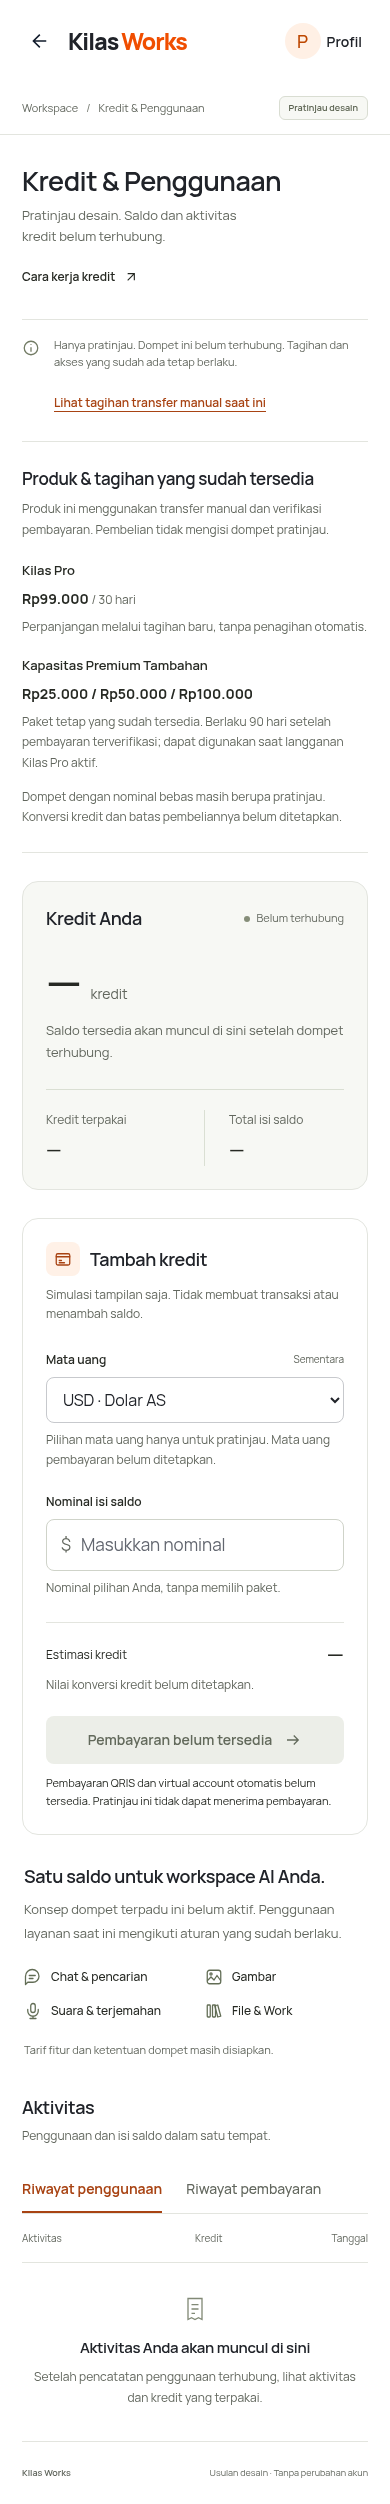
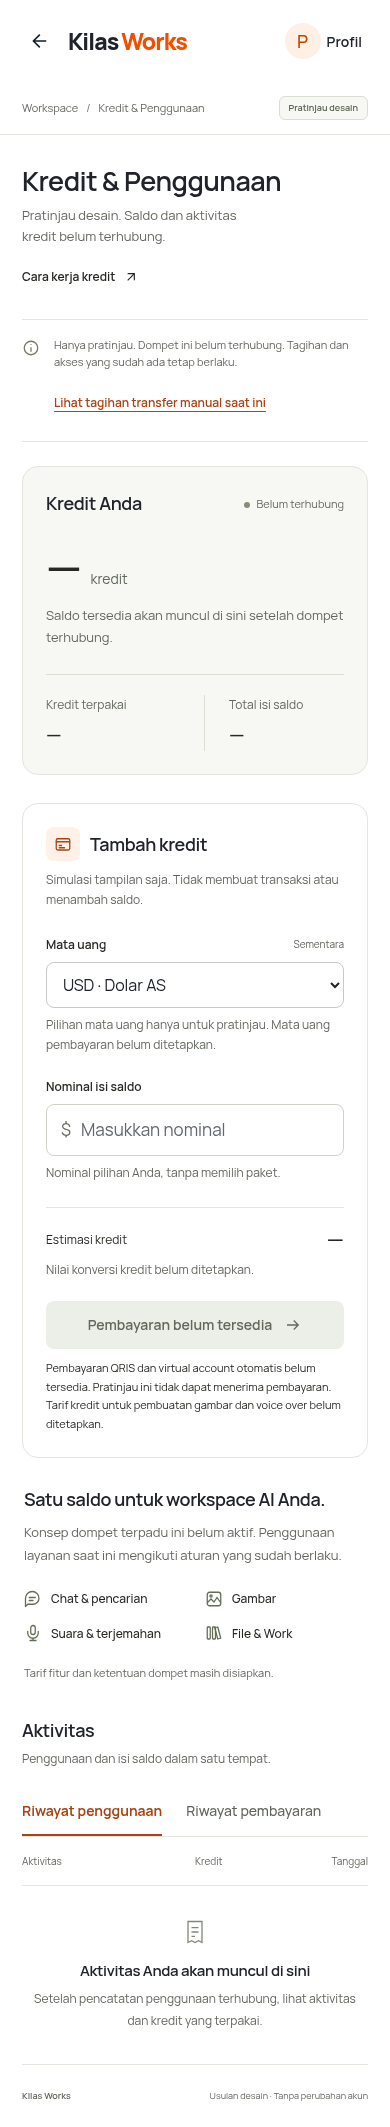
Remove legacy offers from new wallet pricing presentation

diff --git a/client-hub/templates/kilas_ai/credits_usage_preview.html b/client-hub/templates/kilas_ai/credits_usage_preview.html
@@ -22,18 +22,6 @@
       <header class="credits-heading"><div><h1>{{ ui_t('Credits & Usage') }}</h1><p>{{ ui_t('Pratinjau desain. Saldo dan aktivitas kredit belum terhubung.') }}</p></div><a class="credits-help-link" href="#credits-how">{{ ui_t('How credits work') }}<svg viewBox="0 0 24 24" width="16" height="16" fill="none" stroke="currentColor" stroke-width="1.7" aria-hidden="true"><path d="m7 17 10-10M7 7h10v10"/></svg></a></header>
       <div class="credits-preview-note"><svg viewBox="0 0 24 24" width="18" height="18" fill="none" stroke="currentColor" stroke-width="1.7" aria-hidden="true"><circle cx="12" cy="12" r="9"/><path d="M12 11v6m0-10v1"/></svg><p>{{ ui_t('Preview only. This wallet is not connected. Existing billing and access are unchanged.') }}</p><a href="{{ url_for('kilas_ai.usage_page',view='legacy') }}">{{ ui_t('View existing manual billing') }}</a></div>
 
-      {% if current_billing is defined %}
-      <section class="credits-current-billing" aria-labelledby="credits-current-title">
-        <h2 id="credits-current-title">{{ ui_t('Existing products & billing') }}</h2>
-        <p>{{ ui_t('These existing products use manual transfer and payment review. They do not fund the preview wallet.') }}</p>
-        <dl>
-          <div><dt>{{ ui_t('Kilas Pro') }}</dt><dd><strong>Rp{{ '{:,.0f}'.format(current_billing.subscription_amount_idr).replace(',', '.') }}</strong> <span>{{ ui_t('/ 30 days') }}</span></dd><dd class="credits-product-detail">{{ ui_t('Renewal uses a new invoice, not an automatic charge.') }}</dd></div>
-          <div><dt>{{ ui_t('Additional Premium Capacity') }}</dt><dd><strong>{% for amount in current_billing.capacity_amounts_idr %}Rp{{ '{:,.0f}'.format(amount).replace(',', '.') }}{% if not loop.last %} / {% endif %}{% endfor %}</strong></dd><dd class="credits-product-detail">{{ ui_t('Existing fixed packs. Valid for 90 days after verified payment; usable with an active Kilas Pro subscription.') }}</dd></div>
-        </dl>
-        <p class="credits-product-detail">{{ ui_t('The custom-amount wallet remains a preview. Its credit conversion and purchase limits are not set.') }}</p>
-      </section>
-      {% endif %}
-
       <div class="credits-overview">
         <div class="credits-overview-main">
           <section class="credits-balance" aria-labelledby="credits-balance-title">
@@ -66,7 +54,7 @@
           <div class="credits-topup-review">
           <div class="credits-estimate"><div><span>{{ ui_t('Estimated credits') }}</span><strong aria-label="{{ ui_t('Estimate unavailable') }}">—</strong></div><p>{{ ui_t('The credit conversion rate is not set yet.') }}</p></div>
           <button class="credits-pay-button" type="button" disabled aria-describedby="credits-payment-help">{{ ui_t('Pembayaran belum tersedia') }}<svg viewBox="0 0 24 24" width="18" height="18" fill="none" stroke="currentColor" stroke-width="1.7" aria-hidden="true"><path d="M4 12h15m-6-6 6 6-6 6"/></svg></button>
-          <p class="credits-payment-help" id="credits-payment-help">{{ ui_t('Automated QRIS and virtual account payments are not available yet. This preview cannot accept payment.') }}</p>
+          <p class="credits-payment-help" id="credits-payment-help">{{ ui_t('Automated QRIS and virtual account payments are not available yet. This preview cannot accept payment.') }} {{ ui_t('Credit rates for image generation and voice-over have not been set.') }}</p>
           </div>
         </section>
       </div>

diff --git a/client-hub/static/kilas_credits_preview.css b/client-hub/static/kilas_credits_preview.css
@@ -87,12 +87,3 @@
 .credits-design-preview .credits-preview-note a{display:inline-flex;align-items:center;min-height:44px;margin-left:0;font-size:12px;line-height:1.5;text-underline-offset:4px}
 .credits-design-preview .credits-payment-help{font-size:12px;line-height:1.7;text-align:left}
 @media(max-width:1100px){.credits-design-preview .credits-preview-note{grid-template-columns:18px minmax(0,1fr);align-items:start}.credits-design-preview .credits-preview-note a{grid-column:2;justify-self:start}.credits-design-preview .credits-preview-note svg{margin-top:3px}}
-
-.credits-design-preview .credits-current-billing{margin:0 0 28px;padding:0 0 24px;border-bottom:1px solid var(--credits-line)}
-.credits-design-preview .credits-current-billing>p{margin-top:8px;font-size:12px;line-height:1.7;color:var(--credits-muted);max-width:80ch}
-.credits-design-preview .credits-current-billing dl{display:grid;grid-template-columns:1fr 1fr;gap:24px;margin:20px 0 14px}
-.credits-design-preview .credits-current-billing dt{font-size:13px;font-weight:600;margin-bottom:6px}
-.credits-design-preview .credits-current-billing dd{margin:0;font-size:14px;line-height:1.7}
-.credits-design-preview .credits-current-billing dd span{font-size:12px;color:var(--credits-muted)}
-.credits-design-preview .credits-current-billing .credits-product-detail{font-size:12px;line-height:1.7;color:var(--credits-muted);margin-top:6px;max-width:54ch}
-@media(max-width:760px){.credits-design-preview .credits-current-billing dl{grid-template-columns:1fr;gap:18px}.credits-design-preview .credits-current-billing h2{font-size:17px}}

diff --git a/client-hub/tests/test_kilas_ai_single_plan_console.py b/client-hub/tests/test_kilas_ai_single_plan_console.py
@@ -45,22 +45,19 @@ class SinglePlanConsoleTests(unittest.TestCase):
         client.set_cookie('kilas_language', 'id')
         return client
 
-    def test_preview_product_summary_uses_authoritative_prices_without_orders(self):
+    def test_wallet_preview_does_not_advertise_legacy_pricing(self):
         client = self.client_for(self.other)
-        before = topups.owner_orders(self.other)
-        from kilas_ai import billing
-        invoices = billing.owner_invoices(self.other)
-        with patch.dict(usage.PLANS['PLUS'], price=123456), patch.dict(topups.PACKS, MINI=34567):
-            body = client.get('/kilas-ai/usage').get_data(as_text=True)
-        self.assertIn('Rp123.456', body)
-        self.assertIn('Rp34.567', body)
-        self.assertIn('transfer manual', body)
-        self.assertIn('90 hari', body)
+        body = client.get('/kilas-ai/usage').get_data(as_text=True)
+        for old_offer in ('credits-current-billing', 'Rp99.000', 'Rp25.000', 'Rp50.000', 'Rp100.000'):
+            self.assertNotIn(old_offer, body)
+        self.assertIn('Tarif kredit untuk pembuatan gambar dan voice over belum ditetapkan.', body)
+        self.assertIn('href="/kilas-ai/usage?view=legacy"', body)
+        self.assertIn('type="button" disabled', body)
         self.assertNotIn('action="/kilas-ai/checkout"', body)
         self.assertNotIn('action="/kilas-ai/topups"', body)
-        self.assertNotIn('Irvan Karnawi', body)
-        self.assertEqual(topups.owner_orders(self.other), before)
-        self.assertEqual(billing.owner_invoices(self.other), invoices)
+        legacy = client.get('/kilas-ai/usage?view=legacy').get_data(as_text=True)
+        self.assertIn('Rp99.000', legacy)
+        self.assertIn('action="/kilas-ai/checkout"', legacy)
 
     def test_customer_offer_and_amount_validation(self):
         client = self.client_for(self.owner)

diff --git a/client-hub/kilas_ai/routes.py b/client-hub/kilas_ai/routes.py
@@ -89,8 +89,6 @@ def usage_page():
     return render_template(template, subscription=usage.effective_plan(session["user_id"]), subscription_expired=expired,
                            capacity=capacity.summary(session["user_id"]), view='settings',
                            audio_balance=audio_store.balance(session["user_id"]), audio_packs=audio_store.PACKS,
-                           current_billing={"subscription_amount_idr": usage.PLANS["PLUS"]["price"],
-                                            "capacity_amounts_idr": tuple(topups.PACKS.values())},
                            invoices=billing.owner_invoices(session["user_id"]),
                            topup_orders=topups.owner_orders(session["user_id"]))
 

diff --git a/client-hub/scripts/preview_credits_usage.py b/client-hub/scripts/preview_credits_usage.py
@@ -25,8 +25,7 @@ def create_preview():
         return render_template('kilas_ai/credits_usage_preview.html',
                                home_ai={'history_items': []}, view='settings',
                                kilas_profile_email='Preview account', credits_design_preview=True,
-                               ui_messages={}, current_billing={"subscription_amount_idr": 99000,
-                                   "capacity_amounts_idr": (25000, 50000, 100000)})
+                               ui_messages={})
 
     app.add_url_rule('/kilas-ai/usage', 'kilas_ai.usage_page', page)
 

diff --git a/docs/KILAS_XENDIT_NEXT_STEPS_20261104.md b/docs/KILAS_XENDIT_NEXT_STEPS_20261104.md
@@ -1,8 +1,10 @@
 # Checkout implementation findings — 2026-11-04
 
-## Implemented now
+## Product direction correction
 
-The authenticated Credit & Usage preview now includes a read-only existing-product summary. Amounts come from `usage.PLANS['PLUS']['price']` and `topups.PACKS` in the real route, not duplicated UI prices. The local screenshot app uses synthetic fixture values and never imports the application or queries accounts. The summary identifies manual transfer/review, 30-day subscription billing and 90-day fixed capacity packs. It does not offer a new purchase action, replace the custom-amount preview, expose bank details or define numeric wallet credits. Existing invoice links and payment handlers are unchanged.
+The owner clarified the earlier instruction: "ini yg skrg kan hanya luna bro yg lain ga ush karena kan gw bikin gratis yg bayar nnti hanya generate gambar". Chat is intended to be free with Luna, with image generation intended to become paid. Subsequent voice-over monetization may also be considered; this does not establish permanent free access to every non-image service.
+
+The newly added Pro/fixed-pack summary has therefore been removed from the new wallet preview. It risked presenting historical billing constants as the new pricing strategy. The extra route price context, fixture values and section styles were removed too. Legacy billing remains reachable and its handlers/prices/entitlements are unchanged. The disabled checkout explicitly states image-generation and voice-over credit rates are not set. No statement here establishes active runtime flags or enables free usage.
 
 ## Source facts, not new offers
 
@@ -22,7 +24,7 @@ Existing terms and privacy templates already contain business contact `kilaswork
 
 ## Smallest practical automated checkout
 
-Recommendation for a first integration: use the already defined products, if the owner confirms that is the initial automated-payment scope. Alternatively, retain the requested custom-amount wallet as the first target, but decide its actual entitlement semantics first. A hosted checkout alone does not define what a payment buys.
+Follow the confirmed free-chat / future paid-image direction. Do not build automated checkout for historical Pro/fixed-pack offers by inference. Define the custom wallet’s image entitlement and any separately approved voice-over policy first. A hosted checkout alone does not define what a payment buys.
 
 Xendit's current [session overview](https://docs.xendit.co/docs/payment-sessions-overview) and [one-time flow](https://docs.xendit.co/v1/docs/payment-1) support server-side `POST /sessions`, `session_type=PAY`, `mode=PAYMENT_LINK`, IDR/ID, followed by redirect to the returned `payment_link_url`. Use automatic capture and disable saved payment methods; do not turn a 30-day manually renewed product into automatic recurring billing. [Create-session API](https://docs.xendit.co/apidocs/create-session).
 
@@ -37,13 +39,17 @@ Implementation still required:
 
 ## Exact outstanding decisions and access
 
-- **Product decision (pending):** automate existing Pro/fixed capacity first, or implement the new custom-amount wallet first? The latter needs a customer-facing credit definition, conversion/rates, IDR min/max and increments, expiry/refund rules, fees/tax and usage debit semantics. Do not infer these from internal budgets or old custom orders.
+- **Product decisions (pending):** the intended custom-amount wallet for image generation, and any separately approved voice-over paid usage, need a customer-facing credit definition, conversion/rates, IDR min/max and increments, expiry/refund rules, fees/tax and usage debit semantics. Do not infer these from internal budgets or old custom orders.
 - **Account/channels (unknown, not proven inactive):** owner-side Xendit account verification and availability of the chosen QRIS/VA channels have not been inspected. [Xendit's checklist](https://docs.xendit.co/docs/payments-integration-setup) requires activated live channels and separate test/live credentials; inactive channels fail. Approved amounts must also meet each selected channel's limits, which have not been confirmed for this account.
 - **Secrets/access (not configured by this work):** no Xendit adapter or referenced Xendit configuration exists in inspected application code. Existing secret availability is unknown; no secret values were requested or inspected. An authorized operator must later securely supply the permitted API credential, callback verification token and merchant/business identity, and configure the callback endpoint. Creating credentials/persistent access is outside the current permission.
 - **Business/legal (pending confirmation):** confirm legal entity spelling against registration and company bank-holder records; confirm the full office address is appropriate for verification; confirm existing support email/contact and supply the approved wallet/checkout-specific policies. Company Bank Mega settlement setup remains a separate owner-side action. Public contact publication does not configure settlement.
 
 No provider API call, payment, credential creation, bank replacement, Xendit submission or agreement acceptance was performed. Backend integration remains real engineering work; mock-only scaffolding without agreed entitlement semantics would not make checkout ready.
 
-## Validation of this read-only addition
+## Historical validation of the removed summary
 
 Single-plan/console suite passes (6 tests), including existing ledger-preservation and authentication checks and a new regression that varies authoritative prices and verifies rendered values without creating invoices/orders. Manual billing suite passes (2 tests). Credit & Usage browser suite passes 10 size/language cases, retaining custom input validation, disabled payment, keyboard tabs and zero network writes. Updated desktop/mobile screenshots and report are under `docs/qa/business-payment-20261104/`. No provider integration is exercised or claimed by these local checks.
+
+## Correction validation
+
+The six-test console suite includes a regression that rejects Pro/fixed-pack prices in the new preview while confirming the unchanged legacy checkout remains reachable. Billing suite (2 tests) and responsive browser checks (10 size/language cases, disabled checkout, custom-input validation, tabs and no network writes) pass for this correction. Screenshots in `docs/qa/business-payment-20261104` are updated to the corrected UI.
